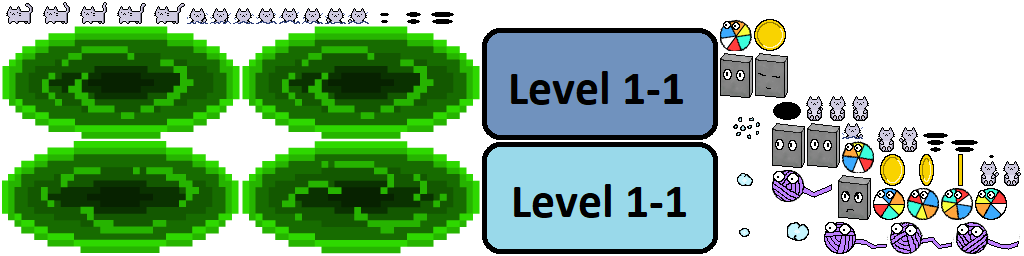
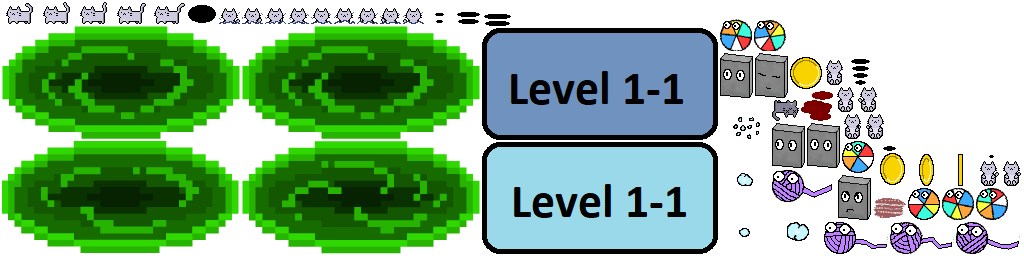
added dead cat1 sprite upon cat1 death, WIP

Changed region(s): [[0.6875, 0.0625, 0.9688, 0.6875], [0.8438, 0.6875, 1.0, 0.875], [0.1875, 0.0, 0.5, 0.125]]

diff --git a/core/src/com/sandra/game/utils/Assets.java b/core/src/com/sandra/game/utils/Assets.java
@@ -25,6 +25,7 @@ public class Assets implements Disposable, AssetErrorListener {
     public ButtonsAssets buttonsAssets;
     public ThwomperAssets thwomperAssets;
     public ShadowAssets shadowAssets;
+    public BloodAssets bloodAssets;
 
     private AssetManager assetManager;
 
@@ -43,6 +44,7 @@ public class Assets implements Disposable, AssetErrorListener {
         buttonsAssets = new ButtonsAssets(atlas);
         thwomperAssets = new ThwomperAssets(atlas);
         shadowAssets = new ShadowAssets(atlas);
+        bloodAssets = new BloodAssets(atlas);
     }
 
 	@Override
@@ -76,6 +78,16 @@ public class Assets implements Disposable, AssetErrorListener {
         public ButtonsAssets(TextureAtlas atlas) {
             button = atlas.findRegion(Constants.BUTTON);
             //button_selected = atlas.findRegion(Constants.BUTTON_SELECTED);
+        }
+    }
+
+    public class BloodAssets {
+        public final TextureRegion bloodSplatter1;
+        public final TextureRegion bloodDrag1;
+
+        public BloodAssets(TextureAtlas atlas) {
+            bloodSplatter1 = new TextureRegion(atlas.findRegion(Constants.BLOOD_SPLATTER1));
+            bloodDrag1 = new TextureRegion(atlas.findRegion(Constants.BLOOD_DRAG1));
         }
     }
 
@@ -135,8 +147,11 @@ public class Assets implements Disposable, AssetErrorListener {
         public final Animation<TextureRegion> cat1_idle_animation;
         public final Animation<TextureRegion> cat1_sliding_animation;
         public final Animation<TextureRegion> cat1_swimming_animation;
+        public final TextureRegion dead1;
 
         public Cat1Assets(TextureAtlas atlas) {
+            dead1 = new TextureRegion(atlas.findRegion(Constants.CAT1_DEAD_1));
+
             Array<TextureRegion> cat1_idle_frames = new Array<TextureRegion>();
             cat1_idle_frames.add(atlas.findRegion(Constants.CAT1_IDLE_SPRITE_1));
             cat1_idle_frames.add(atlas.findRegion(Constants.CAT1_IDLE_SPRITE_2));

diff --git a/core/src/com/sandra/game/entities/Cat1.java b/core/src/com/sandra/game/entities/Cat1.java
@@ -1,7 +1,5 @@
 package com.sandra.game.entities;
 
-import java.util.UUID;
-
 import com.badlogic.gdx.graphics.g2d.SpriteBatch;
 import com.badlogic.gdx.graphics.g2d.TextureRegion;
 import com.badlogic.gdx.math.Vector2;
@@ -54,7 +52,10 @@ public class Cat1 extends Entity {
             dust.render(batch);
 
         // Actions
-        if(action == Enums.Action.IDLE) {
+        if (get_dead()) {
+            region = Assets.instance.cat1Assets.dead1;
+        }
+        else if(action == Enums.Action.IDLE) {
             region = Assets.instance.cat1Assets.cat1_idle_animation.getKeyFrame(animation_time_seconds);
         }
         else if (action == Enums.Action.SLIDING) {
@@ -111,7 +112,7 @@ public class Cat1 extends Entity {
         update_dust(delta);
     }
 
-    public void dispose() {b2d_world.destroyBody(body);}
+    public void dispose() { b2d_world.destroyBody(body); }
 
     private void update_dust(float delta) {
         dust_timer += delta;
@@ -132,7 +133,6 @@ public class Cat1 extends Entity {
 
         for (Entity dust : dusts) { dust.update(delta); }
     }
-
 
     private void init_body() {
         BodyDef bdef = new BodyDef();

diff --git a/core/src/com/sandra/game/utils/Constants.java b/core/src/com/sandra/game/utils/Constants.java
@@ -63,6 +63,7 @@ public class Constants {
     public static final String CAT1_SWIMMING_SPRITE_7 = "cat1Swim7";
     public static final String CAT1_SWIMMING_SPRITE_8 = "cat1Swim8";
     public static final String CAT1_SWIMMING_SPRITE_9 = "cat1Swim9";
+    public static final String CAT1_DEAD_1 = "cat1Dead1";
     
     public static final float CAT1_SCALE = 1.3f;
     public static final float CAT1_LOOP_DURATION = .15f;
@@ -151,4 +152,7 @@ public class Constants {
     public static final float SHADOW_PIXEL_HEIGHT = 5 / PPM;
     public static final float SHADOW_LOOP_DURATION = .19f;
 
+    // Blood
+    public static String BLOOD_SPLATTER1 = "bloodSplatter1";
+    public static String BLOOD_DRAG1 = "bloodDrag1";
 }

diff --git a/core/src/com/sandra/game/screens/Level_1_1.java b/core/src/com/sandra/game/screens/Level_1_1.java
@@ -143,9 +143,9 @@ public class Level_1_1 implements Screen {
                 cat1s.removeValue(cat1, false);
             }
             if (cat1.get_dead()) {
-                purr1.play();
-                cat1.dispose();
-                cat1s.removeValue(cat1, false);
+                // purr1.play();
+                // cat1.dispose();
+                // cat1s.removeValue(cat1, false);
             }
             cat1.update(delta);
         }

diff --git a/core/src/com/sandra/game/handlers/Controls.java b/core/src/com/sandra/game/handlers/Controls.java
@@ -37,7 +37,7 @@ public class Controls {
 
     public void update(float delta) {
         for (Entity entity : entities) {
-            if(entity.get_action() == Enums.Action.SWIMMING) {
+            if(entity.get_action() == Enums.Action.SWIMMING || entity.get_dead()) {
                 max_velocity = Constants.ENTETIES_MAX_VELOCITY / 16;
                 max_acceleration = Constants.ENTETIES_ACCELERATION / 16;
             } 
